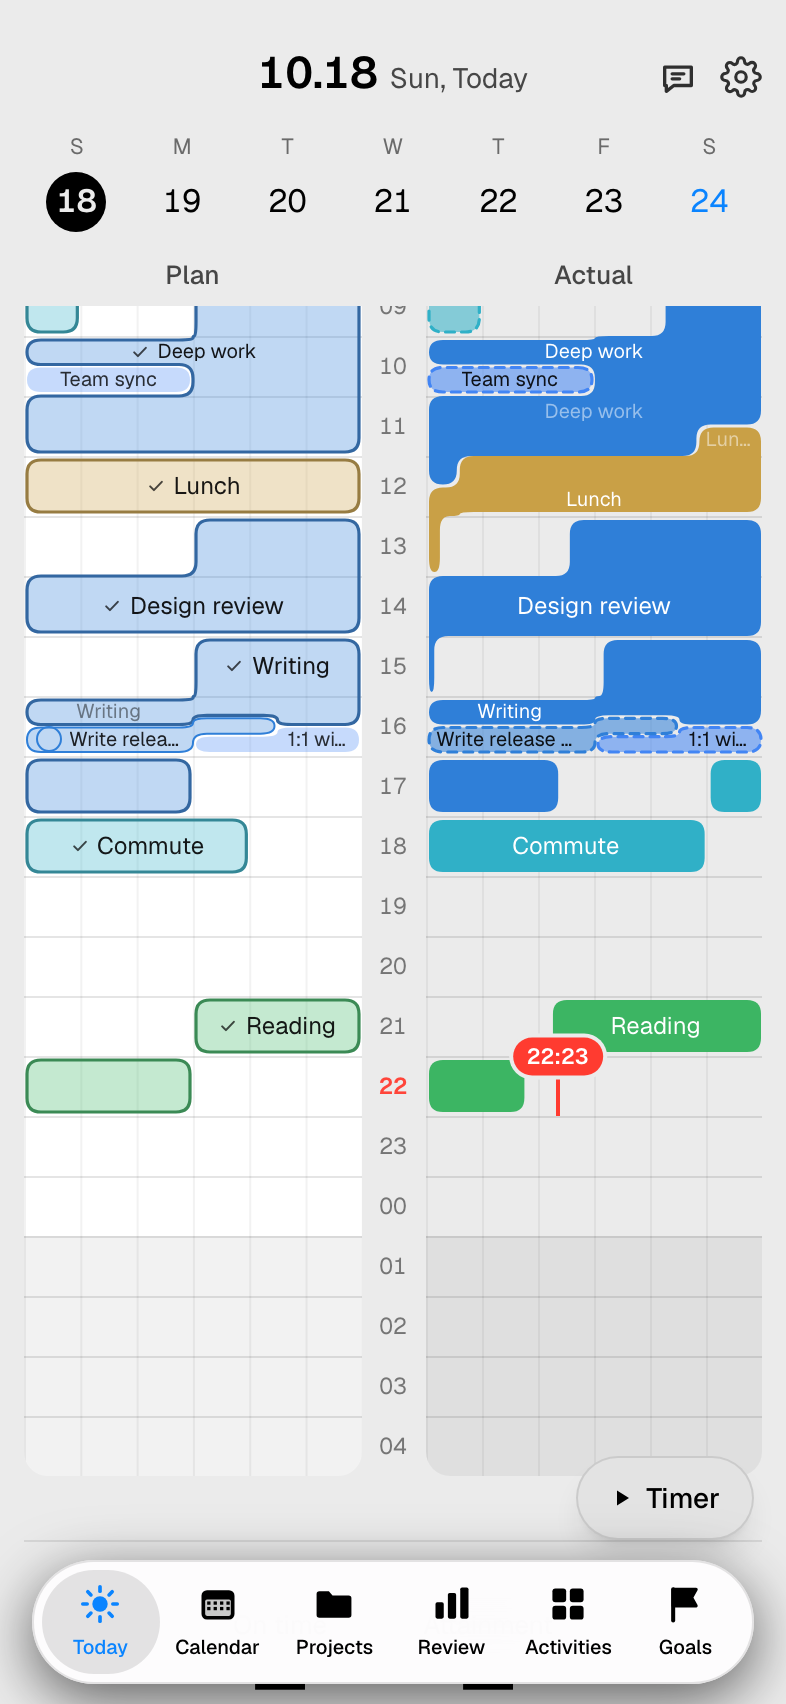
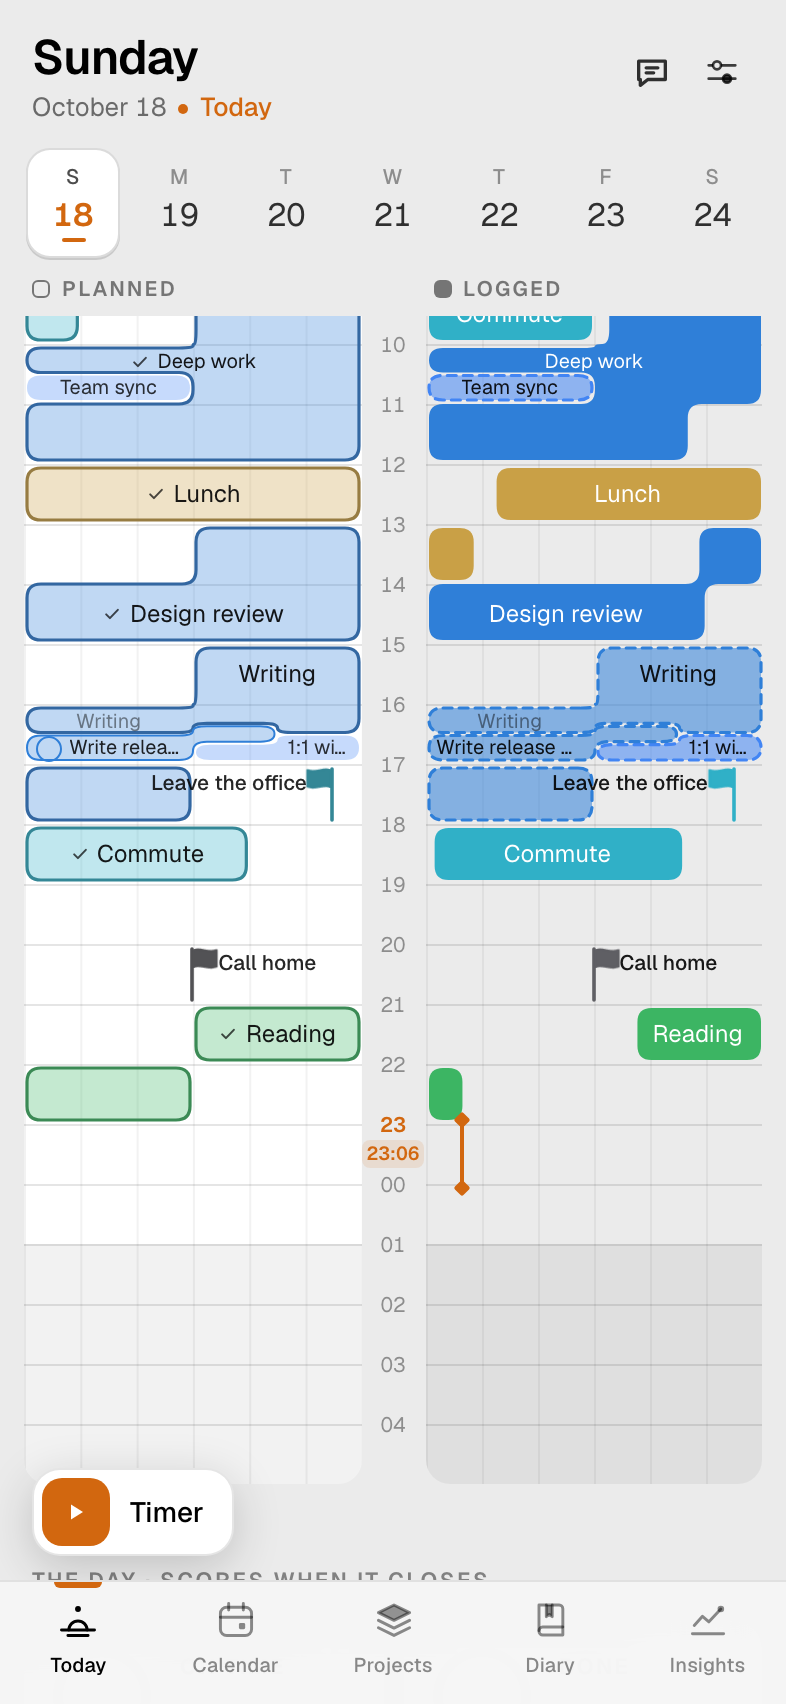
README: new screenshots; Planned / Logged columns, Done score, Insights menu

diff --git a/README.ko.md b/README.ko.md
@@ -35,8 +35,8 @@
 
 | | |
 | --- | --- |
-| ![오늘: 계획과 실제를 나란히](docs/screenshots/today.png) | **오늘.** 왼쪽에 계획, 오른쪽에 실제로 한 일이 한 시간에 한 줄씩 나란히 보입니다.<br><br>빈 곳을 드래그하면 블록이 생기고, 블록을 끌면 옮겨지고, 가장자리를 끌면 길이가 바뀝니다.<br><br>캘린더 일정(점선 블록)도 함께 보여서, 누르면 바로 계획으로 바꿀 수 있습니다. 계획이 끝나면 했는지 물어보게 할 수도 있습니다. |
-| ![리뷰: 계획과 실제가 얼마나 맞았는지](docs/screenshots/review.png) | **리뷰.** 주·월·년 단위로 두 가지 점수를 보여 줍니다.<br>• **제시간(On time %)**: 계획한 일을 계획한 시간에 했는지<br>• **달성률(Attainment %)**: 시간은 달라도 결국 했는지<br><br>요일별, 활동별로 나뉘고, 지난 기간과 나란히 비교됩니다. |
+| ![오늘: 계획과 실제를 나란히](docs/screenshots/today.png) | **오늘.** 왼쪽 **Planned**에 계획, 오른쪽 **Logged**에 실제로 한 일이 한 시간에 한 줄씩 나란히 보입니다.<br><br>빈 곳을 드래그하면 블록이 생기고, 블록을 끌면 옮겨지고, 가장자리를 끌면 길이가 바뀝니다.<br><br>캘린더 일정(점선 블록)도 함께 보여서, 누르면 바로 계획으로 바꿀 수 있습니다. 계획이 끝나면 했는지 물어보게 할 수도 있습니다. |
+| ![리뷰: 계획과 실제가 얼마나 맞았는지](docs/screenshots/review.png) | **리뷰.** 주·월·년 단위로 두 가지 점수를 보여 줍니다.<br>• **제시간(On time %)**: 계획한 일을 계획한 시간에 했는지<br>• **달성(Done %)**: 시간은 달라도 결국 했는지<br><br>요일별, 활동별로 나뉘고, 지난 기간과 나란히 비교됩니다. |
 | ![기록에서 저절로 채워지는 목표](docs/screenshots/goals.png) | **목표.** "이번 주 일 25시간", "운동 4번", "독서 5시간", "매일 제시간에 시작하기" 같은 목표를 세웁니다.<br><br>기록한 대로 저절로 채워집니다. |
 
 이 밖에도 다음 기능이 있습니다.
@@ -135,10 +135,10 @@ Do you want to use Ote on your phone or another computer too?
 
 1. **하루가 시작되는 시각 정하기.** 톱니바퀴 아이콘 → **Time**에서 **Day start time**(예: 05:00)과 **Week starts on**(한 주의 시작 요일)을 정합니다.
 2. **활동 살펴보기.** 모든 블록은 활동 하나에 속합니다. 처음에는 Sleep, Work, Exercise, Reading, Travel, Meal, Commute, Other가 있습니다. 이름이나 색을 바꾸거나 새로 추가하려면 **Activities**에서 합니다.
-3. **계획하기.** **Today**(컴퓨터에서는 **Home**)를 엽니다. **Plan** 열의 빈 곳을 아래로 드래그하고, 활동을 고른 뒤 저장합니다.
-4. **기록하기.** **Actual** 열에도 같은 방법으로 실제로 한 일을 적습니다. 알림을 받고 싶다면 설정 → Notification defaults → **End confirmation**을 켜세요. 계획이 끝날 때 했는지 묻고(✓ / ✕), ✓를 누르면 대신 기록해 줍니다.
+3. **계획하기.** **Today**(컴퓨터에서는 **Home**)를 엽니다. **Planned** 열의 빈 곳을 아래로 드래그하고, 활동을 고른 뒤 저장합니다.
+4. **기록하기.** **Logged** 열에도 같은 방법으로 실제로 한 일을 적습니다. 알림을 받고 싶다면 설정 → Notification defaults → **End confirmation**을 켜세요. 계획이 끝날 때 했는지 묻고(✓ / ✕), ✓를 누르면 대신 기록해 줍니다.
 5. **캘린더 연결**(선택). 설정 → Accounts에서 연결하면 회의 일정이 계획 옆에 보입니다. [캘린더 연결](#캘린더-연결)을 참고하세요.
-6. **며칠 써 본 뒤**, **Review**에서 계획과 실제 하루를 비교해 보고 **Goals**에서 목표를 몇 개 세워 보세요.
+6. **며칠 써 본 뒤**, **Insights → Review**에서 계획과 실제 하루를 비교해 보고 **Insights → Goals**에서 목표를 몇 개 세워 보세요.
 
 ---
 

diff --git a/README.md b/README.md
@@ -37,8 +37,8 @@ cloud service, and your data never leaves your machine. Your phone connects to i
 
 | | |
 | --- | --- |
-| ![Today: plan and actual side by side](docs/screenshots/today.png) | **Today.** Your plan on the left, what you actually did on the right, one row per hour.<br><br>Drag on empty space to add a block, drag a block to move it, or drag its edge to change its length.<br><br>Your calendar events show alongside (the dashed blocks); tap one to turn it into a plan. When a plan ends, Ote can ask whether you did it. |
-| ![Review: how well plan and actual matched](docs/screenshots/review.png) | **Review.** Two scores for each week, month or year:<br>• **On time %**: you did what you planned, when you planned it.<br>• **Attainment %**: you did it, even at another time.<br><br>See them by weekday and per activity, next to the previous period. |
+| ![Today: plan and actual side by side](docs/screenshots/today.png) | **Today.** **Planned** on the left, what you **Logged** (actually did) on the right, one row per hour.<br><br>Drag on empty space to add a block, drag a block to move it, or drag its edge to change its length.<br><br>Your calendar events show alongside (the dashed blocks); tap one to turn it into a plan. When a plan ends, Ote can ask whether you did it. |
+| ![Review: how well plan and actual matched](docs/screenshots/review.png) | **Review.** Two scores for each week, month or year:<br>• **On time %**: you did what you planned, when you planned it.<br>• **Done %**: you did it, even at another time.<br><br>See them by weekday and per activity, next to the previous period. |
 | ![Goals that fill from what you did](docs/screenshots/goals.png) | **Goals.** For example "25 hours of work this week", "exercise 4 times", "read 5 hours", or "start on time every day".<br><br>They fill up by themselves from what you record. |
 
 Also included:
@@ -137,15 +137,15 @@ The installer opens Ote in your browser. You can always find it at the address i
 2. **Look at your activities.** Every block belongs to an activity, and Ote starts with Sleep, Work,
    Exercise, Reading, Travel, Meal, Commute and Other. To rename them, change colours or add your
    own, use **Activities**.
-3. **Plan.** Open **Today** (on a computer, **Home**). Drag down on empty space in the **Plan**
+3. **Plan.** Open **Today** (on a computer, **Home**). Drag down on empty space in the **Planned**
    column, choose an activity, and save.
-4. **Record.** Do the same in the **Actual** column for what really happened. For a nudge, turn on
+4. **Record.** Do the same in the **Logged** column for what really happened. For a nudge, turn on
    Settings → Notification defaults → **End confirmation**: when a plan ends, Ote asks whether you
    did it (✓ / ✕), and ✓ records it for you.
 5. **Add your calendars** (optional) in Settings → Accounts, so your meetings show next to your
    plans. See [Calendars](#calendars).
-6. **After a few days**, open **Review** to see how your plans and your days compare, and set a few
-   **Goals**.
+6. **After a few days**, open **Insights → Review** to see how your plans and your days compare, and set a few
+   **Goals** (also under **Insights**).
 
 > Want to look around first? A copy of Ote filled with sample data is described under
 > [For developers](#for-developers).
